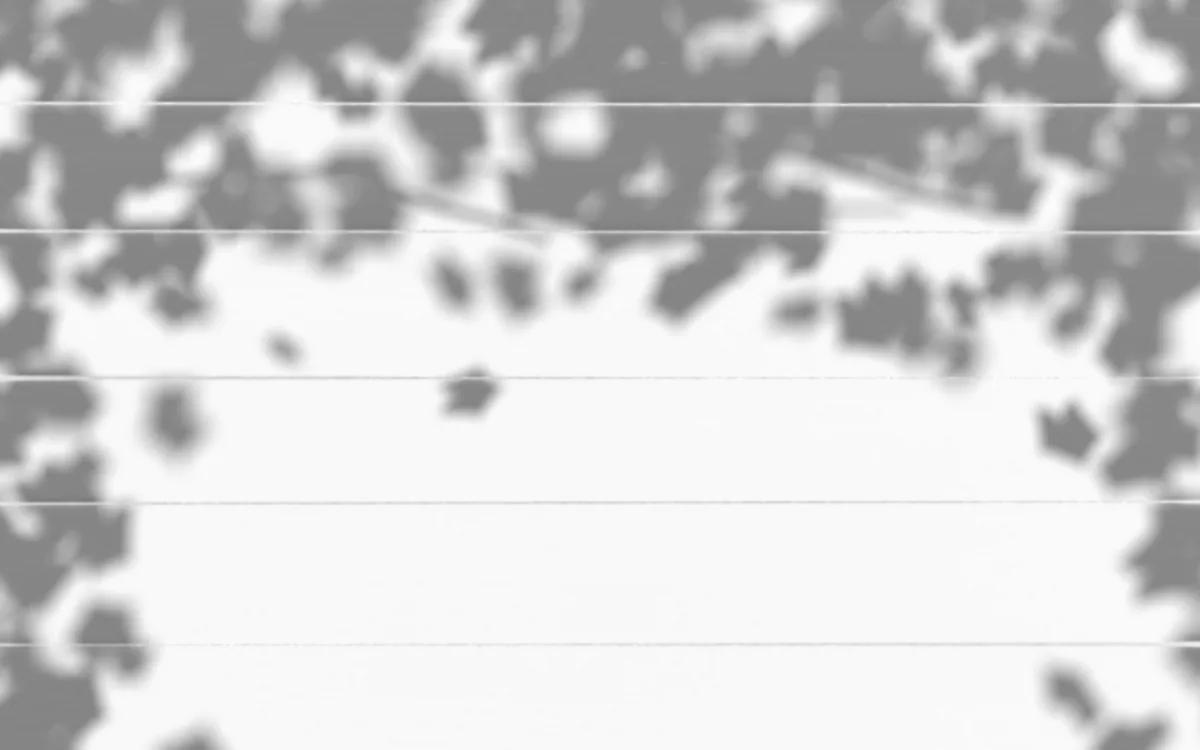
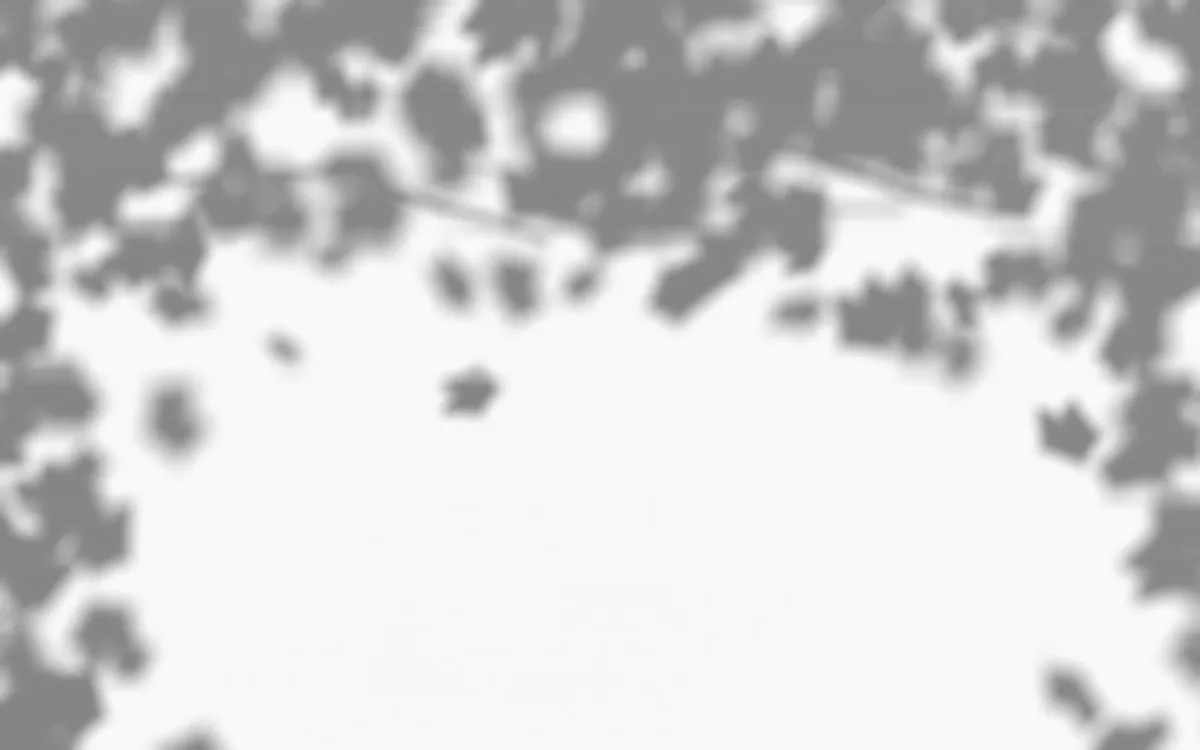
Тени листвы без полос от щелей стола — на всех досках и в любое время суток
Claude-Session: https://claude.ai/code/session_013vq6NREHT7txoK1nXmxN83

diff --git a/index.html b/index.html
@@ -740,10 +740,10 @@ function probeFps(){
 }
 // GAME_VERSION — для людей, меняется при крупных обновлениях; APP_VERSION — номер сборки для кэша, растёт при каждой выкладке
 const GAME_VERSION='1.0';
-const APP_VERSION='65';   // совпадает с V в sw.js: номер сборки (имя кэша)
+const APP_VERSION='66';   // совпадает с V в sw.js: номер сборки (имя кэша)
 // AV — короткие хеши содержимого картинок (их пишет tools/stamp.py): адрес меняется, только когда меняется сам файл,
 // поэтому после обновления заново качается лишь то, что изменилось
-/*AV*/const AV={"boards/ararat-thumb.webp":"72ff05c2","boards/ararat.webp":"7c44b1ce","boards/ck-beech.png":"ef00f4f8","boards/ck-bronze.png":"db6b57b9","boards/ck-copper.png":"761c282a","boards/ck-gold.png":"87fddeef","boards/ck-ivory.png":"372b72ce","boards/ck-onyx.png":"bfb41b3a","boards/ck-pearl.png":"83aaf841","boards/ck-pomegranate.png":"73a5236d","boards/ck-walnut.png":"1857427e","boards/ckside-beech.png":"2e4a01b1","boards/ckside-bronze.png":"700fbb0d","boards/ckside-copper.png":"54a53742","boards/ckside-gold.png":"f3c3b036","boards/ckside-ivory.png":"cce1b2d9","boards/ckside-onyx.png":"3695f6bf","boards/ckside-pearl.png":"d9c5e6f3","boards/ckside-pomegranate.png":"79fe0975","boards/ckside-walnut.png":"bc0fa647","boards/die-1.png":"2d6046dd","boards/die-2.png":"dba1ef51","boards/die-3.png":"c4754c62","boards/die-4.png":"c26495e1","boards/die-5.png":"49661381","boards/die-6.png":"3d46b683","boards/die-amber-1.png":"105d06f3","boards/die-amber-2.png":"f7695264","boards/die-amber-3.png":"518fcc5b","boards/die-amber-4.png":"82e42d65","boards/die-amber-5.png":"a53a1fed","boards/die-amber-6.png":"6114a46b","boards/die-wood-1.png":"f9fecd23","boards/die-wood-2.png":"dad9e71b","boards/die-wood-3.png":"ebe40557","boards/die-wood-4.png":"f8c4f6d2","boards/die-wood-5.png":"239c202c","boards/die-wood-6.png":"ea05a4a3","boards/glass-thumb.webp":"5db12bdb","boards/glass.webp":"3fe1cddb","boards/leafshade.webp":"ac682343","boards/lid.webp":"47f4a845","boards/maple.webp":"c7e0d43c","boards/night-thumb.webp":"61a42599","boards/night.webp":"96cd9880","boards/plaque.webp":"6c60c0b6","boards/pomegranate-thumb.webp":"d5574e56","boards/pomegranate.webp":"a89189f5","boards/prop-beads.webp":"01fd0477","boards/prop-cup.webp":"67e8e539","boards/prop-pack.webp":"a1f55e5d","boards/pt-ararat-long.png":"b706af0c","boards/pt-ararat-short.png":"0d9bdbb6","boards/pt-glass-long.png":"2474d3b3","boards/pt-glass-short.png":"2474d3b3","boards/pt-night-long.png":"c9576df0","boards/pt-night-short.png":"c9576df0","boards/pt-pomegranate-long.png":"b706af0c","boards/pt-pomegranate-short.png":"0d9bdbb6","boards/pt-sevan-long.png":"b706af0c","boards/pt-sevan-short.png":"0d9bdbb6","boards/pt-yerevan-long.png":"f28ec383","boards/pt-yerevan-short.png":"78fa0ed8","boards/sevan-thumb.webp":"35db3522","boards/sevan.webp":"56ec51be","boards/table.webp":"34c082e5","boards/walnut-plank.webp":"3f05219c","boards/yerevan-thumb.webp":"4817779b","boards/yerevan.webp":"64e36c39"};/*/AV*/
+/*AV*/const AV={"boards/ararat-thumb.webp":"72ff05c2","boards/ararat.webp":"7c44b1ce","boards/ck-beech.png":"ef00f4f8","boards/ck-bronze.png":"db6b57b9","boards/ck-copper.png":"761c282a","boards/ck-gold.png":"87fddeef","boards/ck-ivory.png":"372b72ce","boards/ck-onyx.png":"bfb41b3a","boards/ck-pearl.png":"83aaf841","boards/ck-pomegranate.png":"73a5236d","boards/ck-walnut.png":"1857427e","boards/ckside-beech.png":"2e4a01b1","boards/ckside-bronze.png":"700fbb0d","boards/ckside-copper.png":"54a53742","boards/ckside-gold.png":"f3c3b036","boards/ckside-ivory.png":"cce1b2d9","boards/ckside-onyx.png":"3695f6bf","boards/ckside-pearl.png":"d9c5e6f3","boards/ckside-pomegranate.png":"79fe0975","boards/ckside-walnut.png":"bc0fa647","boards/die-1.png":"2d6046dd","boards/die-2.png":"dba1ef51","boards/die-3.png":"c4754c62","boards/die-4.png":"c26495e1","boards/die-5.png":"49661381","boards/die-6.png":"3d46b683","boards/die-amber-1.png":"105d06f3","boards/die-amber-2.png":"f7695264","boards/die-amber-3.png":"518fcc5b","boards/die-amber-4.png":"82e42d65","boards/die-amber-5.png":"a53a1fed","boards/die-amber-6.png":"6114a46b","boards/die-wood-1.png":"f9fecd23","boards/die-wood-2.png":"dad9e71b","boards/die-wood-3.png":"ebe40557","boards/die-wood-4.png":"f8c4f6d2","boards/die-wood-5.png":"239c202c","boards/die-wood-6.png":"ea05a4a3","boards/glass-thumb.webp":"5db12bdb","boards/glass.webp":"3fe1cddb","boards/leafshade.webp":"89c5bdc0","boards/lid.webp":"47f4a845","boards/maple.webp":"c7e0d43c","boards/night-thumb.webp":"61a42599","boards/night.webp":"96cd9880","boards/plaque.webp":"6c60c0b6","boards/pomegranate-thumb.webp":"d5574e56","boards/pomegranate.webp":"a89189f5","boards/prop-beads.webp":"01fd0477","boards/prop-cup.webp":"67e8e539","boards/prop-pack.webp":"a1f55e5d","boards/pt-ararat-long.png":"b706af0c","boards/pt-ararat-short.png":"0d9bdbb6","boards/pt-glass-long.png":"2474d3b3","boards/pt-glass-short.png":"2474d3b3","boards/pt-night-long.png":"c9576df0","boards/pt-night-short.png":"c9576df0","boards/pt-pomegranate-long.png":"b706af0c","boards/pt-pomegranate-short.png":"0d9bdbb6","boards/pt-sevan-long.png":"b706af0c","boards/pt-sevan-short.png":"0d9bdbb6","boards/pt-yerevan-long.png":"f28ec383","boards/pt-yerevan-short.png":"78fa0ed8","boards/sevan-thumb.webp":"35db3522","boards/sevan.webp":"56ec51be","boards/table.webp":"34c082e5","boards/walnut-plank.webp":"3f05219c","boards/yerevan-thumb.webp":"4817779b","boards/yerevan.webp":"64e36c39"};/*/AV*/
 const av=p=>p+'?v='+(AV[p]||APP_VERSION);
 const NS='http://www.w3.org/2000/svg';
 const f2=v=>(+v).toFixed(1);

diff --git a/sw.js b/sw.js
@@ -1,8 +1,8 @@
 // Офлайн-кэш: страница, доски, звуки и шрифты кэшируются при установке.
-const V = '65';                 // = APP_VERSION в index.html
+const V = '66';                 // = APP_VERSION в index.html
 const VERSION = 'nardy-v' + V;
 // хеши содержимого картинок — те же, что AV в index.html (пишет tools/stamp.py)
-/*AV*/const AV={"boards/ararat-thumb.webp":"72ff05c2","boards/ararat.webp":"7c44b1ce","boards/ck-beech.png":"ef00f4f8","boards/ck-bronze.png":"db6b57b9","boards/ck-copper.png":"761c282a","boards/ck-gold.png":"87fddeef","boards/ck-ivory.png":"372b72ce","boards/ck-onyx.png":"bfb41b3a","boards/ck-pearl.png":"83aaf841","boards/ck-pomegranate.png":"73a5236d","boards/ck-walnut.png":"1857427e","boards/ckside-beech.png":"2e4a01b1","boards/ckside-bronze.png":"700fbb0d","boards/ckside-copper.png":"54a53742","boards/ckside-gold.png":"f3c3b036","boards/ckside-ivory.png":"cce1b2d9","boards/ckside-onyx.png":"3695f6bf","boards/ckside-pearl.png":"d9c5e6f3","boards/ckside-pomegranate.png":"79fe0975","boards/ckside-walnut.png":"bc0fa647","boards/die-1.png":"2d6046dd","boards/die-2.png":"dba1ef51","boards/die-3.png":"c4754c62","boards/die-4.png":"c26495e1","boards/die-5.png":"49661381","boards/die-6.png":"3d46b683","boards/die-amber-1.png":"105d06f3","boards/die-amber-2.png":"f7695264","boards/die-amber-3.png":"518fcc5b","boards/die-amber-4.png":"82e42d65","boards/die-amber-5.png":"a53a1fed","boards/die-amber-6.png":"6114a46b","boards/die-wood-1.png":"f9fecd23","boards/die-wood-2.png":"dad9e71b","boards/die-wood-3.png":"ebe40557","boards/die-wood-4.png":"f8c4f6d2","boards/die-wood-5.png":"239c202c","boards/die-wood-6.png":"ea05a4a3","boards/glass-thumb.webp":"5db12bdb","boards/glass.webp":"3fe1cddb","boards/leafshade.webp":"ac682343","boards/lid.webp":"47f4a845","boards/maple.webp":"c7e0d43c","boards/night-thumb.webp":"61a42599","boards/night.webp":"96cd9880","boards/plaque.webp":"6c60c0b6","boards/pomegranate-thumb.webp":"d5574e56","boards/pomegranate.webp":"a89189f5","boards/prop-beads.webp":"01fd0477","boards/prop-cup.webp":"67e8e539","boards/prop-pack.webp":"a1f55e5d","boards/pt-ararat-long.png":"b706af0c","boards/pt-ararat-short.png":"0d9bdbb6","boards/pt-glass-long.png":"2474d3b3","boards/pt-glass-short.png":"2474d3b3","boards/pt-night-long.png":"c9576df0","boards/pt-night-short.png":"c9576df0","boards/pt-pomegranate-long.png":"b706af0c","boards/pt-pomegranate-short.png":"0d9bdbb6","boards/pt-sevan-long.png":"b706af0c","boards/pt-sevan-short.png":"0d9bdbb6","boards/pt-yerevan-long.png":"f28ec383","boards/pt-yerevan-short.png":"78fa0ed8","boards/sevan-thumb.webp":"35db3522","boards/sevan.webp":"56ec51be","boards/table.webp":"34c082e5","boards/walnut-plank.webp":"3f05219c","boards/yerevan-thumb.webp":"4817779b","boards/yerevan.webp":"64e36c39"};/*/AV*/
+/*AV*/const AV={"boards/ararat-thumb.webp":"72ff05c2","boards/ararat.webp":"7c44b1ce","boards/ck-beech.png":"ef00f4f8","boards/ck-bronze.png":"db6b57b9","boards/ck-copper.png":"761c282a","boards/ck-gold.png":"87fddeef","boards/ck-ivory.png":"372b72ce","boards/ck-onyx.png":"bfb41b3a","boards/ck-pearl.png":"83aaf841","boards/ck-pomegranate.png":"73a5236d","boards/ck-walnut.png":"1857427e","boards/ckside-beech.png":"2e4a01b1","boards/ckside-bronze.png":"700fbb0d","boards/ckside-copper.png":"54a53742","boards/ckside-gold.png":"f3c3b036","boards/ckside-ivory.png":"cce1b2d9","boards/ckside-onyx.png":"3695f6bf","boards/ckside-pearl.png":"d9c5e6f3","boards/ckside-pomegranate.png":"79fe0975","boards/ckside-walnut.png":"bc0fa647","boards/die-1.png":"2d6046dd","boards/die-2.png":"dba1ef51","boards/die-3.png":"c4754c62","boards/die-4.png":"c26495e1","boards/die-5.png":"49661381","boards/die-6.png":"3d46b683","boards/die-amber-1.png":"105d06f3","boards/die-amber-2.png":"f7695264","boards/die-amber-3.png":"518fcc5b","boards/die-amber-4.png":"82e42d65","boards/die-amber-5.png":"a53a1fed","boards/die-amber-6.png":"6114a46b","boards/die-wood-1.png":"f9fecd23","boards/die-wood-2.png":"dad9e71b","boards/die-wood-3.png":"ebe40557","boards/die-wood-4.png":"f8c4f6d2","boards/die-wood-5.png":"239c202c","boards/die-wood-6.png":"ea05a4a3","boards/glass-thumb.webp":"5db12bdb","boards/glass.webp":"3fe1cddb","boards/leafshade.webp":"89c5bdc0","boards/lid.webp":"47f4a845","boards/maple.webp":"c7e0d43c","boards/night-thumb.webp":"61a42599","boards/night.webp":"96cd9880","boards/plaque.webp":"6c60c0b6","boards/pomegranate-thumb.webp":"d5574e56","boards/pomegranate.webp":"a89189f5","boards/prop-beads.webp":"01fd0477","boards/prop-cup.webp":"67e8e539","boards/prop-pack.webp":"a1f55e5d","boards/pt-ararat-long.png":"b706af0c","boards/pt-ararat-short.png":"0d9bdbb6","boards/pt-glass-long.png":"2474d3b3","boards/pt-glass-short.png":"2474d3b3","boards/pt-night-long.png":"c9576df0","boards/pt-night-short.png":"c9576df0","boards/pt-pomegranate-long.png":"b706af0c","boards/pt-pomegranate-short.png":"0d9bdbb6","boards/pt-sevan-long.png":"b706af0c","boards/pt-sevan-short.png":"0d9bdbb6","boards/pt-yerevan-long.png":"f28ec383","boards/pt-yerevan-short.png":"78fa0ed8","boards/sevan-thumb.webp":"35db3522","boards/sevan.webp":"56ec51be","boards/table.webp":"34c082e5","boards/walnut-plank.webp":"3f05219c","boards/yerevan-thumb.webp":"4817779b","boards/yerevan.webp":"64e36c39"};/*/AV*/
 const av = p => AV[p] ? p + '?v=' + AV[p] : p;
 const SHELL = [
   './',

diff --git a/tools/leafshade.py b/tools/leafshade.py
@@ -1,0 +1,34 @@
+# Карта теней виноградного навеса: стол с навесом / стол без навеса (рендеры tools/blender_table.py, обычный и NOVINE=1).
+# В щелях между досками стола оба рендера почти чёрные, отношение там бессмысленно — такие места заполняем по соседям,
+# иначе щели ложились бы тёмными полосами на доску и предметы.
+import numpy as np
+from PIL import Image
+from scipy import ndimage as ndi
+a = np.asarray(Image.open('.preview/blender-table.png').convert('RGB')).astype(np.float32).mean(2)
+b = np.asarray(Image.open('.preview/blender-table-novine.png').convert('RGB')).astype(np.float32).mean(2)
+valid = (b > 55).astype(np.float32)
+valid = ndi.binary_erosion(valid, iterations=2).astype(np.float32)          # и края щелей тоже не берём
+r = np.clip(a / (b + 1), 0, 1.2)
+s = 3.0
+num = ndi.gaussian_filter(r * valid, s); den = ndi.gaussian_filter(valid, s)
+fill = num / np.maximum(den, 1e-4)
+# где рядом совсем нет годных пикселей — берём шире
+num2 = ndi.gaussian_filter(r * valid, 12); den2 = ndi.gaussian_filter(valid, 12)
+fill = np.where(den > .05, fill, num2 / np.maximum(den2, 1e-4))
+out = np.clip(fill, .2, 1)
+# щели между досками — горизонтальные полосы: находим их по тёмным строкам рендера и заменяем
+# плавной интерполяцией между строками выше и ниже (кромки досок тоже захватываем)
+rm = b.mean(1); low = np.nonzero(rm < np.median(rm) * .75)[0]
+bands = []
+for y in low:
+    if bands and y - bands[-1][1] <= 2: bands[-1][1] = y
+    else: bands.append([y, y])
+for y0, y1 in bands:
+    y0 = max(0, y0 - 14); y1 = min(len(rm) - 1, y1 + 14)
+    top, bot = out[y0 - 1].copy(), out[y1 + 1].copy()
+    for y in range(y0, y1 + 1):
+        t = (y - y0 + 1) / (y1 - y0 + 2); out[y] = top * (1 - t) + bot * t
+out = ndi.gaussian_filter(out, 1.5)
+Image.fromarray((out * 255).astype(np.uint8)).resize((1200, 750), Image.LANCZOS).save('boards/leafshade.webp', 'WEBP', quality=82, method=6)
+Image.fromarray((out * 255).astype(np.uint8)).resize((960, 600)).save('.preview/leaf-s.png')
+print('leafshade ok')
